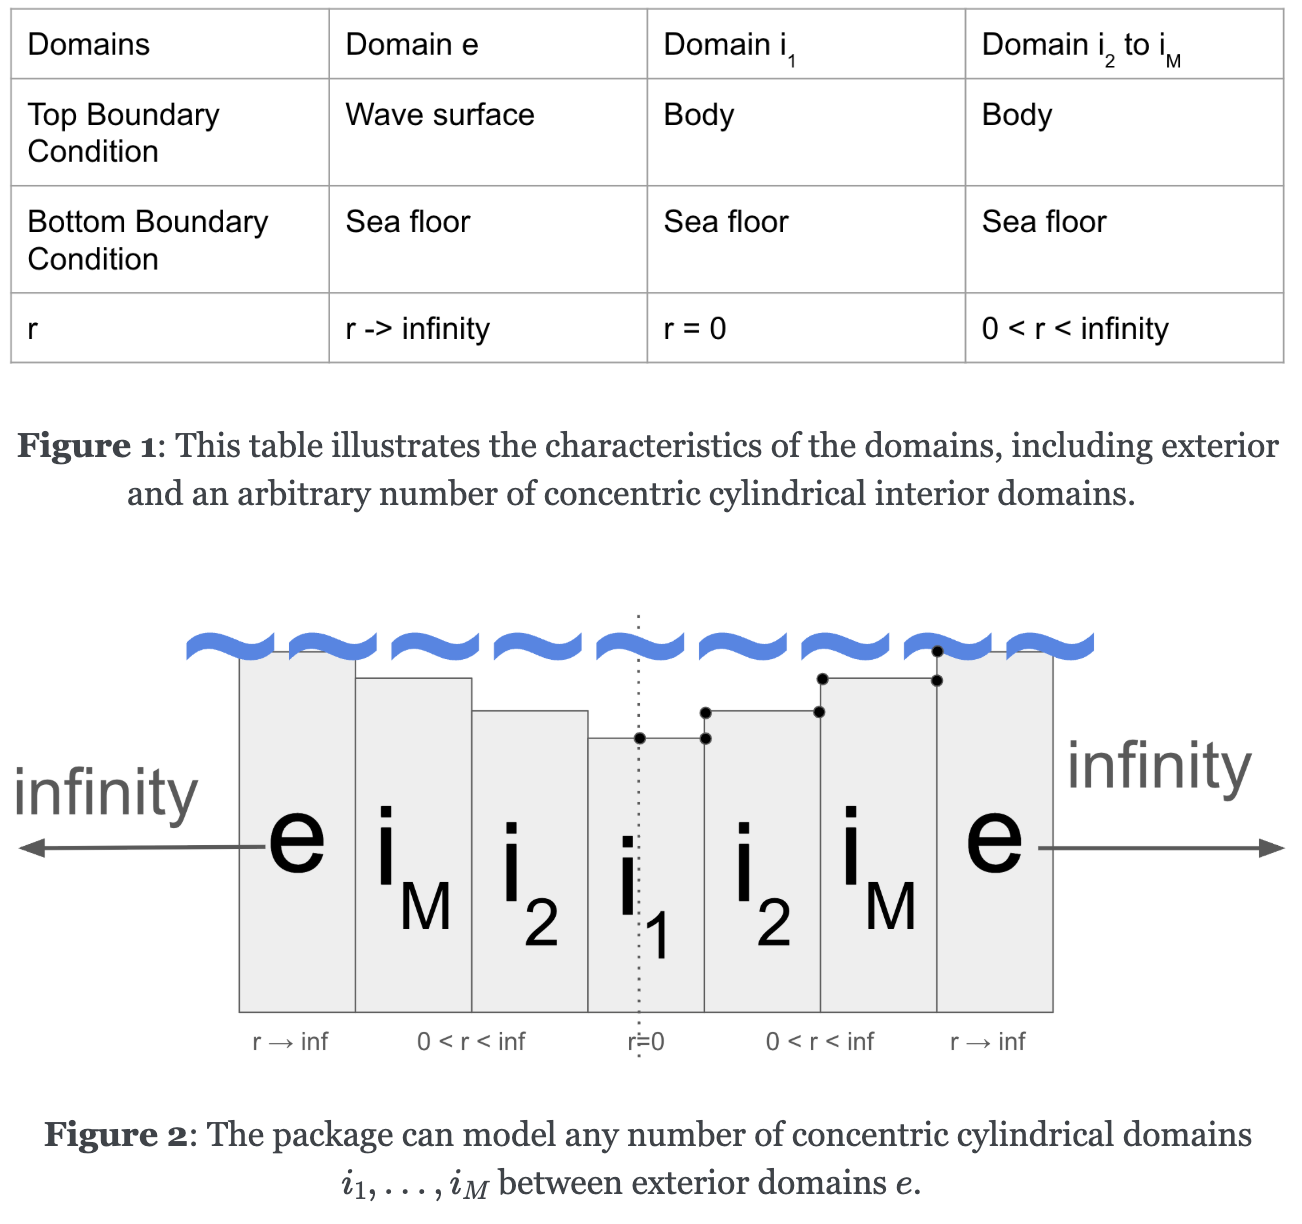
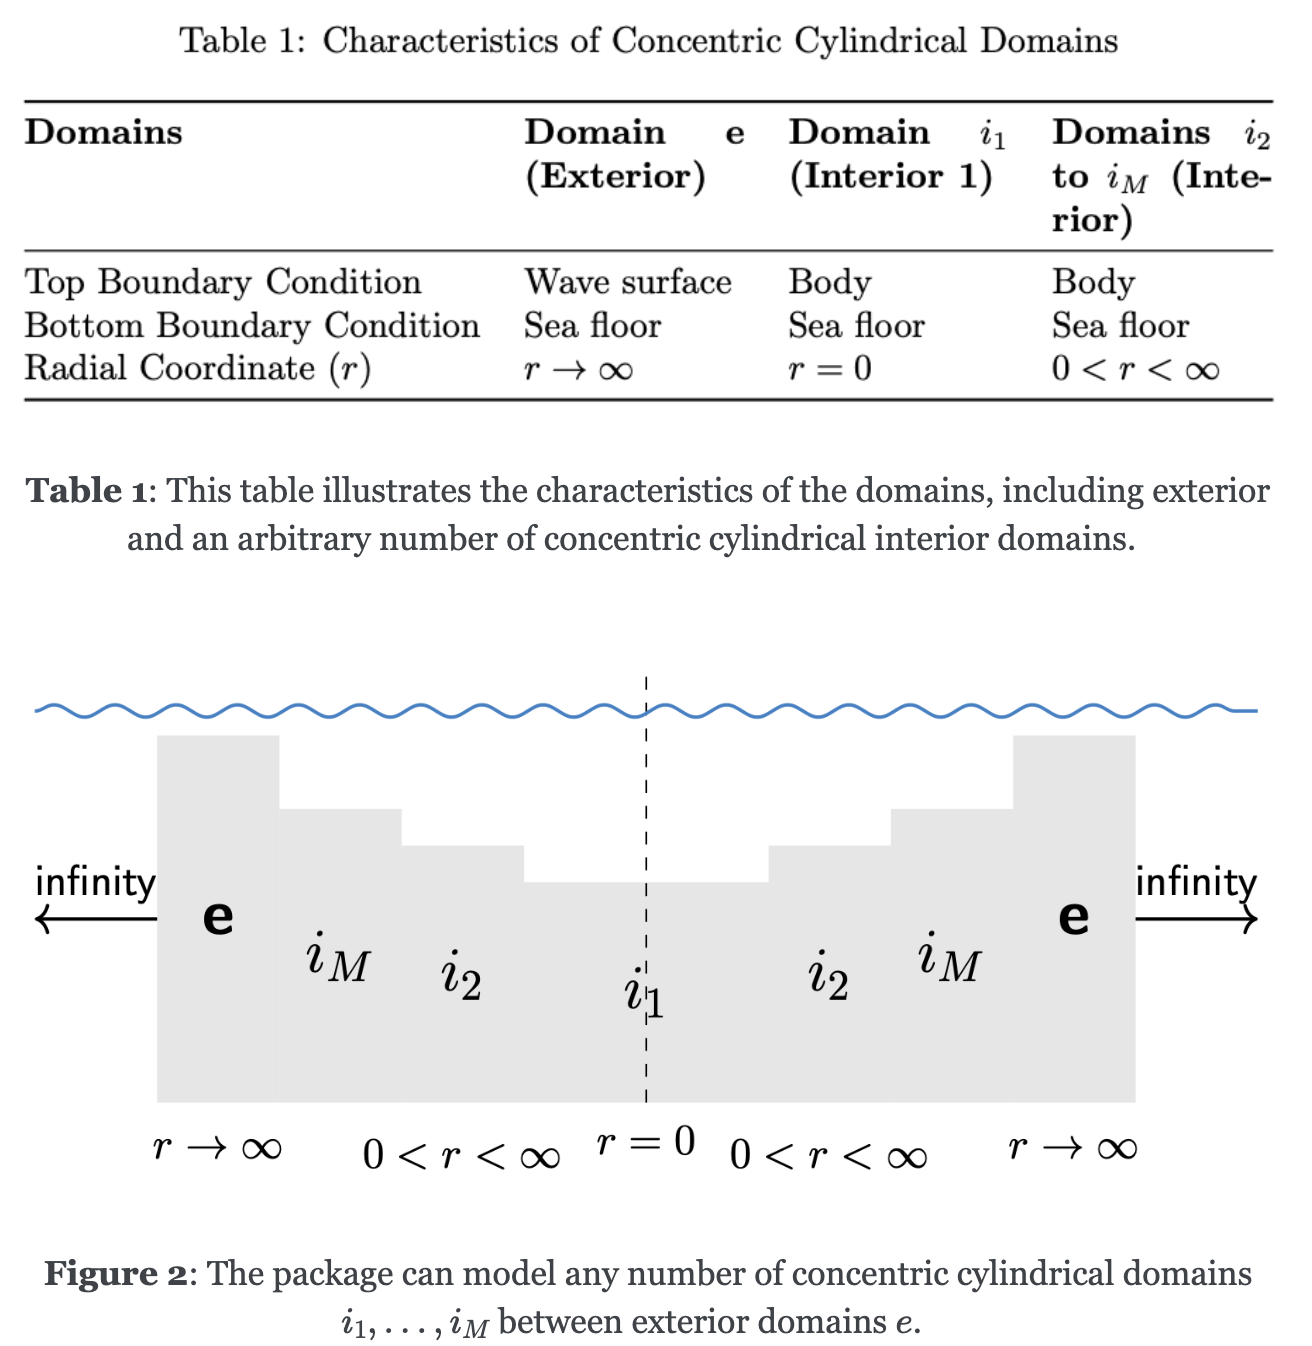
updating diagrams

diff --git a/pubs/figs/uml.py b/pubs/figs/uml.py
@@ -1,0 +1,91 @@
+from graphviz import Digraph
+
+dot = Digraph(comment="MEEM UML Diagram (Simplified Geometry-Domain Link)", format="png")
+dot.attr(rankdir="TB", fontsize="10")  # Top-to-Bottom layout
+
+# Define classes
+classes = {
+    "Geometry": [
+        "- r_coordinates: Dict[str, float]",
+        "- z_coordinates: Dict[str, float]",
+        "- domain_params: List[Dict]",
+        "+ adjacency_matrix: np.ndarray",
+        "+ make_domain_list(): Dict[int, Domain]"
+    ],
+    "Domain": [
+        "- number_harmonics: int",
+        "- height: float",
+        "- radial_width: float",
+        "- top_BC",
+        "- bottom_BC",
+        "- category: str",
+        "- params: dict",
+        "- index: int",
+        "- geometry: Geometry",
+        "+ build_domain_params(...) List[Dict]",
+        "+ build_r_coordinates_dict() dict[str, float]",
+        "+ build_z_coordinates_dict() dict[str, float]"
+    ],
+    "MEEMProblem": [
+        "- geometry: Geometry",
+        "+ set_frequencies_modes(frequencies: np.ndarray, modes: np.ndarray)"
+    ],
+    "MEEMEngine": [
+        "- problem_list: List[MEEMProblem]",
+        "+ _ensure_m_k_and_N_k_arrays(problem: MEEMProblem, m0)",
+        "+ assemble_A_multi(problem: MEEMProblem, m0): ndarray",
+        "+ assemble_b_multi(problem: MEEMProblem, m0): ndarray",
+        "+ build_problem_cache(problem: MEEMProblem): ProblemCache",
+        "+ calculate_potentials(...): Dict",
+        "+ calculate_velocities(...): Dict",
+        "+ compute_hydrodynamic_coefficients(...)",
+        "+ reformat_coeffs(...) list[ndarray]",
+        "+ run_and_store_results(problem_index: int): Results",
+        "+ solve_linear_system_multi(problem: MEEMProblem, m0): ndarray",
+        "+ visualize_potential(field, R, Z, title): tuple"
+    ],
+    "Results": [
+        "- geometry: Geometry",
+        "- frequencies: np.ndarray",
+        "- modes: np.ndarray",
+        "+ display_results(): str",
+        "+ export_to_netcdf(file_path: str)",
+        "+ get_results(): xarray.Dataset",
+        "+ store_all_potentials(all_potentials_batch: list[dict])",
+        "+ store_hydrodynamic_coefficients(...)",
+        "+ store_results(domain_index: int, radial_data: ndarray, vertical_data: ndarray)",
+        "+ store_single_potential_field(...)"
+    ],
+    "ProblemCache": [
+        "- problem",
+        "+ add_m0_dependent_A_entry(row: int, col: int, calc_func: Callable)",
+        "+ add_m0_dependent_b_entry(row: int, calc_func: Callable)",
+        "+ get_A_template(): ndarray",
+        "+ get_b_template(): ndarray",
+        "+ get_closure(key: str)",
+        "+ set_A_template(A_template: ndarray)",
+        "+ set_I_nm_vals(I_nm_vals: ndarray)",
+        "+ set_b_template(b_template: ndarray)",
+        "+ set_closure(key: str, closure)",
+        "+ set_m_k_and_N_k_funcs(m_k_entry_func: Callable, N_k_func: Callable)",
+        "+ set_precomputed_m_k_N_k(m_k_arr: ndarray, N_k_arr: ndarray)"
+    ]
+}
+
+# Add class nodes again
+for cls, members in classes.items():
+    members_str = "\\l".join(members) + "\\l"
+    label = f"{{{cls}|{members_str}}}"
+    dot.node(cls, shape="record", label=label)
+
+# Relationships
+dot.edge("Geometry", "Domain", arrowhead="diamond", label="1..*")  # Composition
+dot.edge("MEEMProblem", "Geometry", label="1")
+dot.edge("MEEMEngine", "MEEMProblem", label="*")
+dot.edge("MEEMEngine", "ProblemCache", label="*")
+dot.edge("MEEMEngine", "Results", label="*")
+dot.edge("Results", "Geometry", label="1")
+
+# Render
+output_path = "openflash_uml_vertical"
+dot.render(output_path, cleanup=True)

diff --git a/docs/domain.rst b/docs/domain.rst
@@ -5,10 +5,6 @@ Domain Module
 ==============
 
 .. automodule:: domain
-   :members:
-   :undoc-members:
-   :show-inheritance:
-
 .. _domain-overview:
 
 .. figure:: _static/domain_table.png
@@ -16,7 +12,7 @@ Domain Module
    :align: center
    :width: 100%
 
-   **Figure 1**: This table illustrates the characteristics of the domains, including exterior and an arbitrary number of concentric cylindrical interior domains.
+   **Table 1**: This table illustrates the characteristics of the domains, including exterior and an arbitrary number of concentric cylindrical interior domains.
 
 .. figure:: _static/domain_drawing.png
    :alt: Example of how domains would look
